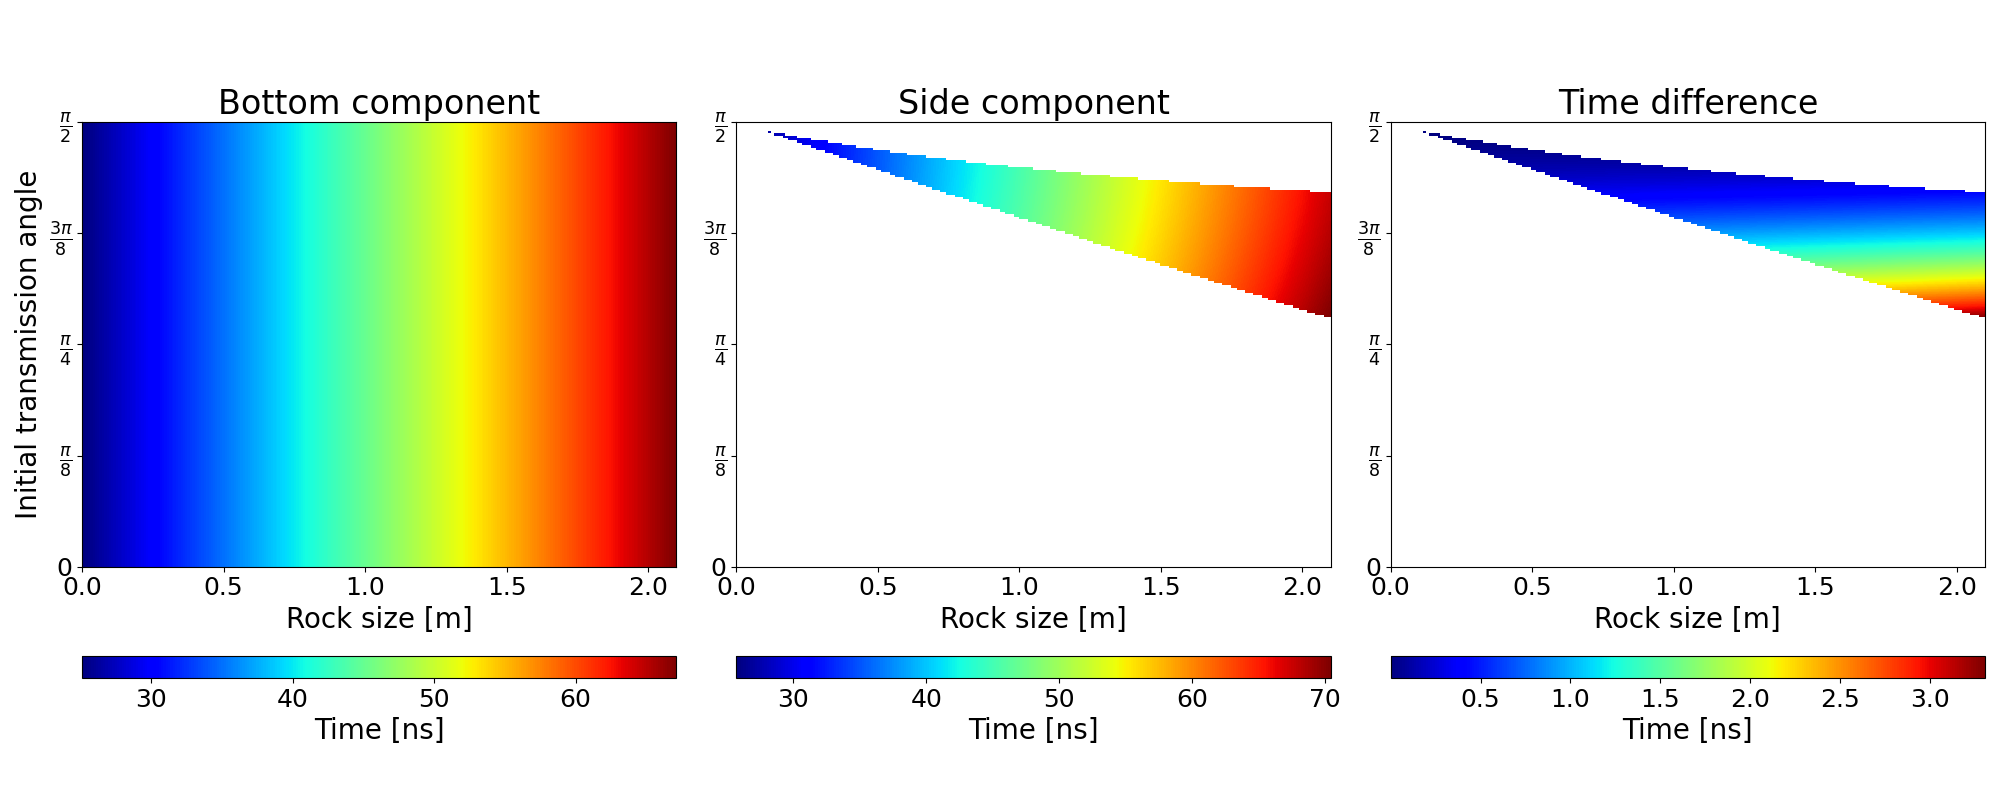
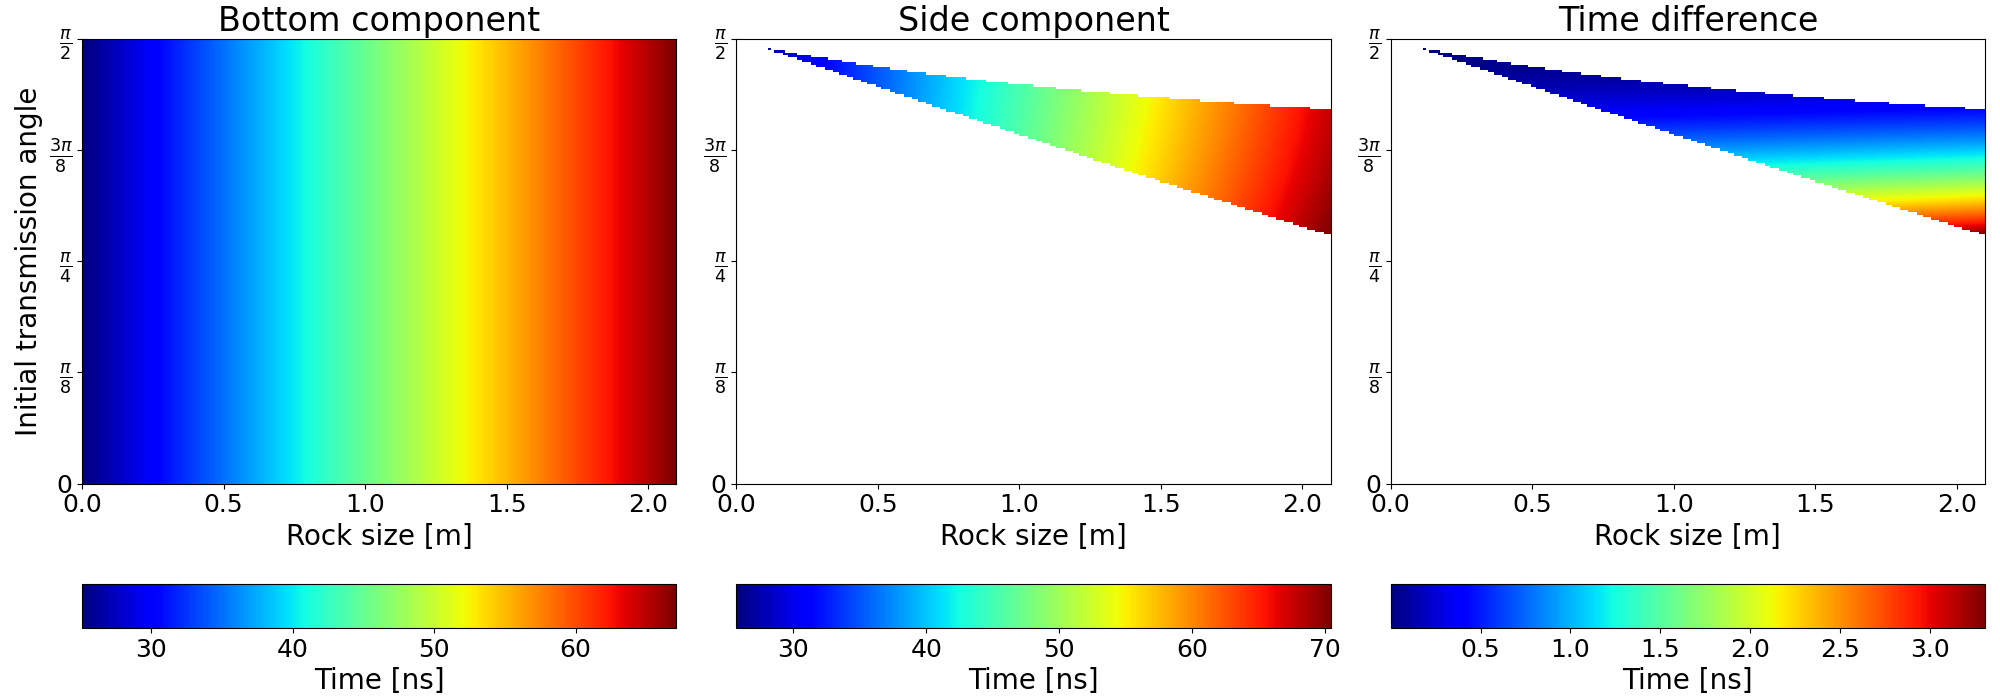
グラフ調整

diff --git a/kanda_test_programs/propagation_model_square/calc_propagation_time.py b/kanda_test_programs/propagation_model_square/calc_propagation_time.py
@@ -56,17 +56,17 @@ delta_T = Ts - Tb  # [s]
 
 
 #* Plot
-fig, ax = plt.subplots(1, 3, figsize=(20, 8), tight_layout=True)
+fig, ax = plt.subplots(1, 3, figsize=(20, 7), tight_layout=True)
 
 #* Plot colormap
 color = 'jet'
-colorbar_size = '5%'
-colorbar_pad = '20%'
+colorbar_size = '10%'
+colorbar_pad = 1
 
 #* Bottom component
 im0 = ax[0].imshow(Tb / 1e-9,
             extent=(rock_size_array[0], rock_size_array[-1], theta_array[0], theta_array[-1]),
-            aspect='equal', cmap = color)
+            cmap = color)
 ax[0].set_title('Bottom component', fontsize=24)
 ax[0].set_ylabel('Initial transmission angle', fontsize=20)
 
@@ -79,7 +79,7 @@ cbar0.ax.tick_params(labelsize=18)
 #* Side component
 im1 = ax[1].imshow(Ts / 1e-9,
             extent=(rock_size_array[0], rock_size_array[-1], theta_array[0], theta_array[-1]),
-            aspect='equal', cmap = color)
+            cmap = color)
 ax[1].set_title('Side component', fontsize=24)
 
 delvider1 = axgrid1.make_axes_locatable(ax[1])
@@ -91,7 +91,7 @@ cbar1.ax.tick_params(labelsize=18)
 #* Time difference
 im2 = ax[2].imshow(delta_T / 1e-9,
             extent=(rock_size_array[0], rock_size_array[-1], theta_array[0], theta_array[-1]),
-            aspect='equal', cmap = color)
+            cmap = color)
 ax[2].set_title('Time difference', fontsize=24)
 
 delvider2 = axgrid1.make_axes_locatable(ax[2])
@@ -110,6 +110,7 @@ for i in range(3):
     ax[i].set_yticks(y_ticks)
     ax[i].set_yticklabels(y_labels)
     ax[i].tick_params(axis='both', labelsize=18)
+
 
 plt.savefig('kanda_test_programs/propagation_model_square/propagation_time.png')
 plt.show()
